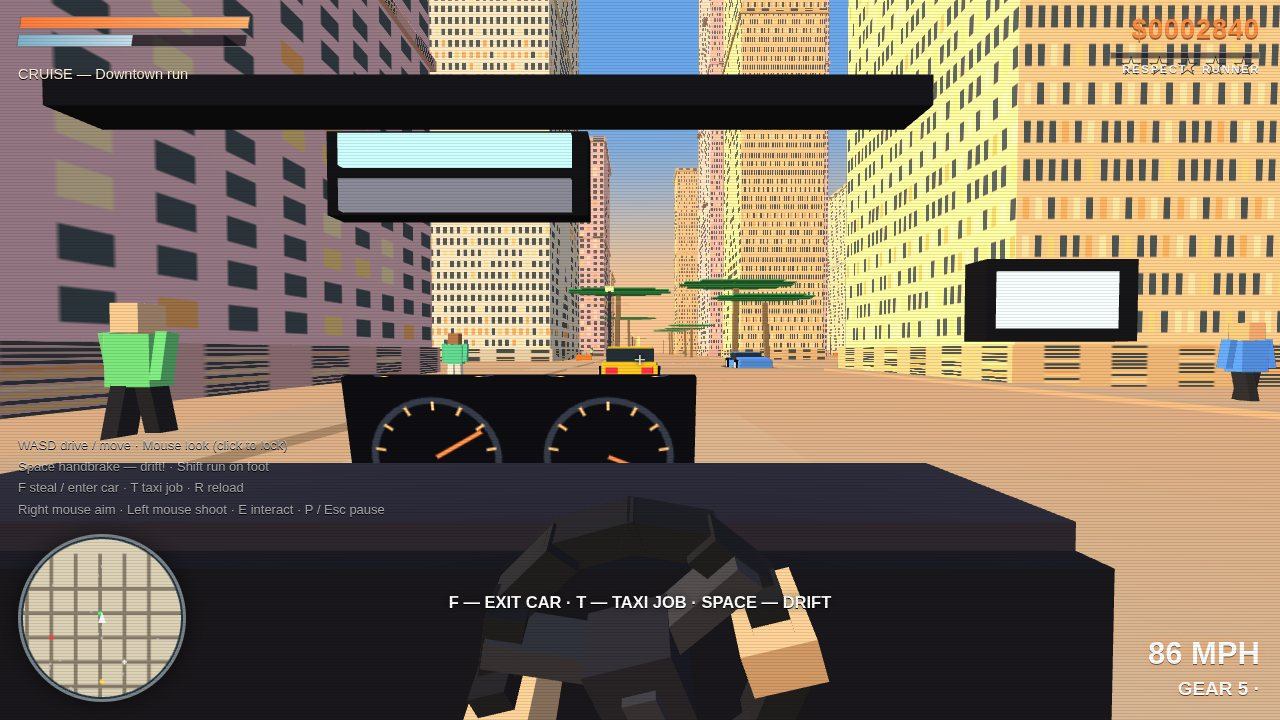
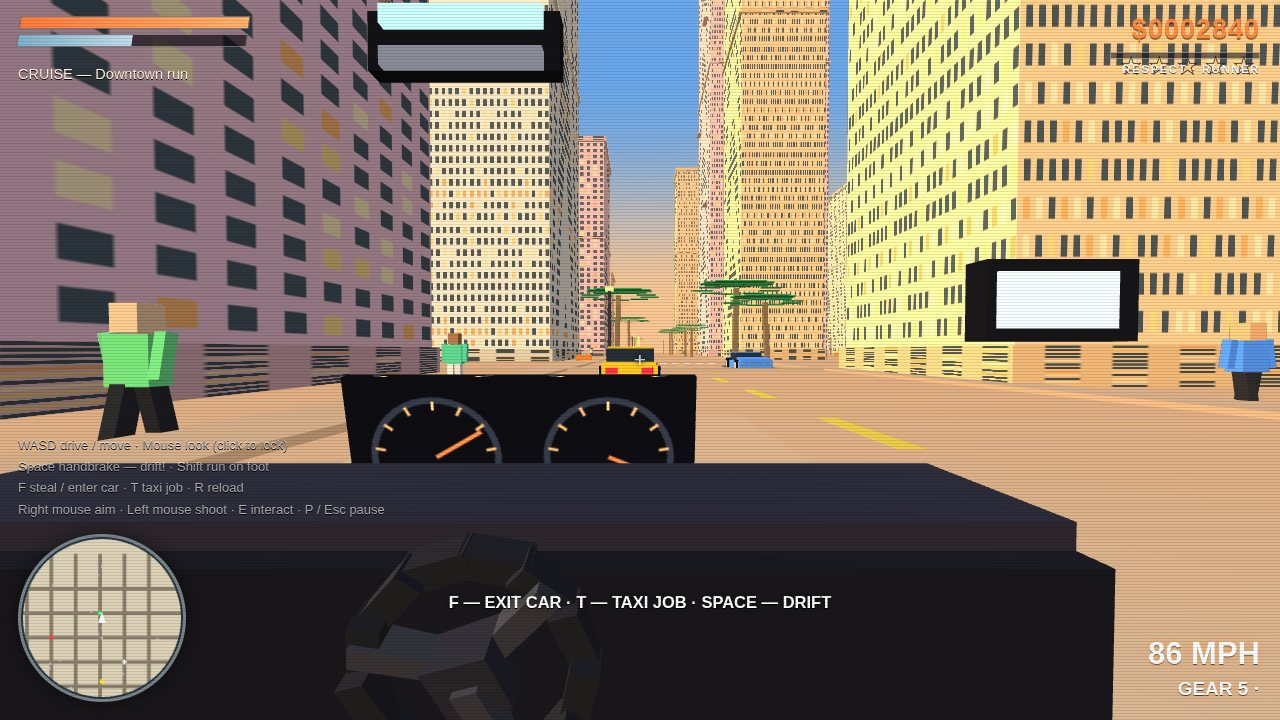
Chase composition + cockpit refinement round: (1) Chase scene restaged on an open straight-road stretch chosen by a sight-line scan (buildings + palm-canopy occlusion of the five helicopter sample rays, corridor palm count as tiebreak) - roadblock pair angled nose-in at 15 m, a pursuit unit alongsid

diff --git a/game/src/game/shots.js b/game/src/game/shots.js
@@ -57,25 +57,75 @@ export function setupShotScene(s, kind) {
   }
   if (kind === 'chase') {
     const car = s.cars.find(c => c.kind === 'parked');
-    // Snap onto a straight vertical road, facing +Z down its length, so the
-    // roadblock / heli / wreck staged ahead are actually in frame.
+    // Open straight-road staging: scan this road for the stretch with the
+    // fewest palm canopies overhanging the next 50 m, so the frame reads as
+    // an open chase corridor instead of a tunnel of fronds.
     const centers = roadCenters();
     const roadC = centers.reduce((a, b) => Math.abs(b - BLOCK * 0.5) < Math.abs(a - BLOCK * 0.5) ? b : a, centers[0]);
-    car.kind = 'player'; car.x = roadC - 3.6; car.z = -30; car.ry = 0;
+    // Score each stretch by (a) how many sight-rays from the cockpit to the
+    // staged helicopter are blocked by buildings / palm canopies (eye is the
+    // deterministic cockpit anchor; margins cover spring/trauma wobble) and
+    // (b) how many canopies overhang the corridor. Geometry mirrors the QA
+    // projection assertion in /tmp/qa-chase.mjs.
+    const segBlocked = (e, pt) => {
+      for (const b of s.city.buildings) {
+        const lo = [b.x - b.w / 2 - 0.3, 0, b.z - b.d / 2 - 0.3], hi = [b.x + b.w / 2 + 0.3, b.h, b.z + b.d / 2 + 0.3];
+        let t0 = 0, t1 = 1, miss = false;
+        for (let i = 0; i < 3; i++) {
+          const d = pt[i] - e[i];
+          if (Math.abs(d) < 1e-9) { if (e[i] < lo[i] || e[i] > hi[i]) { miss = true; break; } continue; }
+          let ta = (lo[i] - e[i]) / d, tb = (hi[i] - e[i]) / d;
+          if (ta > tb) { const tmp = ta; ta = tb; tb = tmp; }
+          t0 = Math.max(t0, ta); t1 = Math.min(t1, tb);
+          if (t0 > t1) { miss = true; break; }
+        }
+        if (!miss && t0 < 0.97) return true;
+      }
+      for (const pm of s.city.palms) {
+        const sc = pm.s || 1, lean = pm.lean || 0.1;
+        const cxp = pm.x + lean * 1.65 * sc, czp = pm.z + lean * 0.5 * sc, cyp = 5.05 * sc, rr = 2.85 * sc + 0.4;
+        for (let i = 1; i < 40; i++) {
+          const t = i / 40;
+          if (t < 0.03 || t > 0.97) continue;
+          const x = e[0] + (pt[0] - e[0]) * t, y = e[1] + (pt[1] - e[1]) * t, zz = e[2] + (pt[2] - e[2]) * t;
+          if (Math.abs(y - cyp) < 0.5 && Math.hypot(x - cxp, zz - czp) < rr) return true;
+        }
+      }
+      return false;
+    };
+    let bestZ = -30, bestScore = Infinity;
+    for (let z = -75; z <= 25; z += 5) {
+      const eye = [roadC - 3.6 - 0.35, 1.22, z + 0.15];
+      const hx0 = roadC - 3.6 - 6, hz0 = z + 21, hh = 12.5, hry = 0.9;
+      const hfx = Math.sin(hry), hfz = Math.cos(hry), hrx = Math.cos(hry), hrz = -Math.sin(hry);
+      const hPts = [
+        [hx0, hh, hz0],
+        [hx0 + hfx * 3.2, hh, hz0 + hfz * 3.2],
+        [hx0 - hfx * 3.4, hh + 0.4, hz0 - hfz * 3.4],
+        [hx0 + hrx * 6.75, hh + 1.5, hz0 + hrz * 6.75],
+        [hx0 - hrx * 6.75, hh + 1.5, hz0 - hrz * 6.75],
+      ];
+      let score = hPts.filter(pt => segBlocked(eye, pt)).length * 100;
+      for (const pm of s.city.palms) if (Math.abs(pm.x - roadC) < 13 && pm.z > z - 4 && pm.z < z + 52) score++;
+      if (score < bestScore || (score === bestScore && Math.abs(z + 30) < Math.abs(bestZ + 30))) { bestScore = score; bestZ = z; }
+    }
+    car.kind = 'player'; car.x = roadC - 3.6; car.z = bestZ; car.ry = 0;
     p.inCar = car; p.x = car.x; p.z = car.z;
     car.rpm = 0.8; s.wanted = 4; s.trauma = 0.45;
     const fx = Math.sin(car.ry), fz = Math.cos(car.ry), rx = Math.cos(car.ry), rz = -Math.sin(car.ry);
     const mkCop = (x, z, ry) => ({ id: 950 + s.cops.length, kind: 'cop', x, z, ry, speed: 12, targetSpeed: 20, hp: 120, smoke: 0, driver: true, stopped: 0, color: [0.95, 0.95, 0.97] });
-    s.cops.push(mkCop(car.x - rx * 2.6 + fx * 0.6, car.z - rz * 2.6 + fz * 0.6, car.ry + 0.15));
-    s.cops.push(mkCop(car.x - fx * 14 + rx * 5, car.z - fz * 14 + rz * 5, car.ry));
-    // 4-star roadblock: two cruisers side by side across the road ahead.
+    // PIT unit tucked behind (mirror / minimap dressing).
+    s.cops.push(mkCop(car.x - rx * 2.6 - fx * 2, car.z - rz * 2.6 - fz * 2, car.ry + 0.15));
+    // Pursuit unit alongside ahead-left, fully in frame.
+    s.cops.push(mkCop(car.x + fx * 9 + rx * 5.0, car.z + fz * 9 + rz * 5.0, car.ry + 0.05));
+    // 4-star roadblock: two cruisers angled nose-in across the road ahead.
     for (const sd of [-3.0, 3.0]) {
-      const rb = mkCop(car.x + fx * 13 + rx * sd, car.z + fz * 13 + rz * sd, car.ry + Math.PI / 2);
+      const rb = mkCop(car.x + fx * 15 + rx * sd, car.z + fz * 15 + rz * sd, car.ry + Math.PI / 2 - Math.sign(sd) * 0.30);
       rb.roadblock = true; rb.speed = 0;
       s.cops.push(rb);
     }
-    // Air unit overhead, spotlight locked on the player car (staged for frame).
-    s.heli = { a: 0, h: 6, ry: car.ry + 0.9, x: car.x + fx * 15 - rx * 3.5, z: car.z + fz * 15 - rz * 3.5 };
+    // Air unit high in the upper frame, broadside, spotlight on the player.
+    s.heli = { a: 0, h: 12.5, ry: car.ry + 0.9, x: car.x + fx * 21 - rx * 6, z: car.z + fz * 21 - rz * 6 };
     // A burning wreck by the roadside for the explosion chain money-shot.
     const wreck = placeTrafficAt(s, 3, car.x + fx * 11 - rx * 8, car.z + fz * 11 - rz * 8, car.ry + 0.7, [0.3, 0.3, 0.34]);
     wreck.burning = 1.4; wreck.hp = 0;
@@ -83,10 +133,10 @@ export function setupShotScene(s, kind) {
     placeTrafficAt(s, 0, car.x + fx * 26 - rx * 8, car.z + fz * 26 - rz * 8, car.ry + Math.PI / 2, [0.98, 0.78, 0.15]);
     placeTrafficAt(s, 1, car.x - fx * 10 + rx * 10, car.z - fz * 10 + rz * 10, car.ry, [0.4, 0.7, 0.4]);
     const road = roadC;
-    placePedAt(s, 0, road - 10, -42, false, road, -10);
-    placePedAt(s, 1, road + 10.5, -16, false, road, 10.5);
-    placePedAt(s, 2, road + 2, -8, true, road, 12);
-    placePedAt(s, 3, road + 16, -26, true, road, -13);
+    placePedAt(s, 0, road - 10, car.z - 12, false, road, -10);
+    placePedAt(s, 1, road + 10.5, car.z + 14, false, road, 10.5);
+    placePedAt(s, 2, road + 2, car.z + 22, true, road, 12);
+    placePedAt(s, 3, road + 16, car.z + 4, true, road, -13);
     for (let i = 0; i < 26; i++) out.puffs.push({ x: car.x - fx * 2 + rng.range(-1, 1), y: 0.5, z: car.z - fz * 2 + rng.range(-1, 1), vx: -fx * 2, vy: rng.range(1, 2), vz: -fz * 2, life: 1.6, size: 0.9, color: [0.85, 0.85, 0.88] });
     for (let i = 0; i < 10; i++) out.puffs.push({ x: car.x - rx * 2.2, y: 0.8, z: car.z - rz * 2.2, vx: -rx * 3, vy: 1.5, vz: -rz * 3, life: 0.5, size: 0.3, color: [1, 0.75, 0.25] });
     out.skids = [{ x: car.x - fx * 6, z: car.z - fz * 6, ry: car.ry, len: 9 }, { x: car.x - fx * 10, z: car.z - fz * 10, ry: car.ry + 0.2, len: 8 }];

diff --git a/game/src/main.js b/game/src/main.js
@@ -81,7 +81,9 @@ function buildCityMeshes(s) {
     }
     for (let i = 0; i < 9; i++) {
       const a = i / 9 * Math.PI * 2;
-      plain.box(tx + Math.sin(a) * 1.8 * sc, 4.9 * sc + 0.3, tz + Math.cos(a) * 1.8 * sc, 3.8 * sc, 0.08, 0.8 * sc, [0.18, 0.62, 0.33]);
+      const dx = Math.sin(a), dz = Math.cos(a);
+      plain.box(tx + dx * 1.15 * sc, 4.95 * sc + 0.3, tz + dz * 1.15 * sc, 2.4 * sc, 0.08, 0.55 * sc, [0.18, 0.62, 0.33]);
+      plain.box(tx + dx * 2.2 * sc, 4.55 * sc + 0.3, tz + dz * 2.2 * sc, 1.3 * sc, 0.07, 0.45 * sc, [0.16, 0.56, 0.30]);
     }
   }
   for (const l of city.lights) {
@@ -236,9 +238,10 @@ function drawInterior(s, car) {
   // live instrument cluster (canvas texture, needles track speed/rpm)
   q = at(1.36, -0.05, 0.95);
   R.panel(q[0], q[1], q[2], car.ry, 0.88, 0.42, 'dash', { pitch: -0.18 });
-  // steering wheel: slim ring (r=0.175) + three spokes, rotation = steer x 3.2
+  // steering wheel: ring (r=0.15) + three spokes, rotation = steer x 3.2;
+  // seated low and left-of-centre on the driver's axis, no hand blocks
   const wheelRoll = -(car.phys ? car.phys.steerAngle : 0) * 3.2;
-  const wc = at(0.74, -0.35, 0.82);
+  const wc = at(0.80, -0.12, 0.78);
   const wob = (dx, dy) => {
     const cr = Math.cos(wheelRoll), sr = Math.sin(wheelRoll);
     const lx = dx * cr - dy * sr, ly = dx * sr + dy * cr;
@@ -249,18 +252,15 @@ function drawInterior(s, car) {
   // ring: 12 short segments approximating a circle
   for (let i = 0; i < 12; i++) {
     const a = i / 12 * Math.PI * 2;
-    b = wob(Math.cos(a) * 0.175, Math.sin(a) * 0.175);
-    R.box(b[0], b[1], b[2], car.ry, 0.115, 0.048, 0.05, rimC, { pitch: -0.32, roll: wheelRoll + a + Math.PI / 2 });
+    b = wob(Math.cos(a) * 0.15, Math.sin(a) * 0.15);
+    R.box(b[0], b[1], b[2], car.ry, 0.10, 0.042, 0.045, rimC, { pitch: -0.32, roll: wheelRoll + a + Math.PI / 2 });
   }
   // three spokes: down, lower-left, lower-right (classic 3-spoke layout)
   for (const a of [-Math.PI / 2, -Math.PI / 2 - 2.1, -Math.PI / 2 + 2.1]) {
-    b = wob(Math.cos(a) * 0.095, Math.sin(a) * 0.095);
-    R.box(b[0], b[1], b[2], car.ry, 0.20, 0.042, 0.055, spokeC, { pitch: -0.32, roll: wheelRoll + a });
+    b = wob(Math.cos(a) * 0.082, Math.sin(a) * 0.082);
+    R.box(b[0], b[1], b[2], car.ry, 0.17, 0.038, 0.05, spokeC, { pitch: -0.32, roll: wheelRoll + a });
   }
-  b = wob(0, 0); R.box(b[0], b[1], b[2], car.ry, 0.11, 0.11, 0.09, [0.16, 0.16, 0.19], { pitch: -0.32, roll: wheelRoll });
-  // driver hands gripping the rim at 9 and 3
-  b = wob(-0.175, -0.01); R.box(b[0], b[1], b[2], car.ry, 0.09, 0.07, 0.11, [0.85, 0.68, 0.52], { pitch: -0.32, roll: wheelRoll });
-  b = wob(0.175, -0.01); R.box(b[0], b[1], b[2], car.ry, 0.09, 0.07, 0.11, [0.85, 0.68, 0.52], { pitch: -0.32, roll: wheelRoll });
+  b = wob(0, 0); R.box(b[0], b[1], b[2], car.ry, 0.095, 0.095, 0.08, [0.16, 0.16, 0.19], { pitch: -0.32, roll: wheelRoll });
   for (const sd of [-1, 1]) {
     q = at(0.92, sd * 1.02, 1.3);
     R.box(q[0], q[1], q[2], car.ry, 0.24, 0.13, 0.05, [0.08, 0.08, 0.1]);
@@ -272,15 +272,14 @@ function drawInterior(s, car) {
   R.box(q[0], q[1], q[2], car.ry, 0.42, 0.3, 1.1, [0.11, 0.11, 0.14]);
   q = at(0.55, 0.18, 0.6);
   R.box(q[0], q[1], q[2], car.ry, 0.07, 0.16, 0.07, [0.2, 0.2, 0.24]);
-  // rear-view mirror with a simple two-tone reflection (sky over road)
-  q = at(1.08, 0, 1.56);
-  R.box(q[0], q[1], q[2], car.ry, 0.5, 0.16, 0.05, [0.07, 0.07, 0.09]);
-  q = at(1.05, 0, 1.60);
-  R.box(q[0], q[1], q[2], car.ry, 0.44, 0.06, 0.02, [0.62, 0.78, 0.94], { emissive: true });
-  q = at(1.05, 0, 1.515);
-  R.box(q[0], q[1], q[2], car.ry, 0.44, 0.06, 0.02, [0.42, 0.42, 0.46], { emissive: true });
-  q = at(1.30, 0, 1.82);
-  R.box(q[0], q[1], q[2], car.ry, 2.05, 0.07, 0.12, [0.08, 0.08, 0.11]);
+  // rear-view mirror, small and tight to the top edge (two-tone reflection)
+  q = at(1.06, -0.02, 1.80);
+  R.box(q[0], q[1], q[2], car.ry, 0.36, 0.11, 0.04, [0.07, 0.07, 0.09]);
+  q = at(1.03, -0.02, 1.838);
+  R.box(q[0], q[1], q[2], car.ry, 0.30, 0.035, 0.02, [0.62, 0.78, 0.94], { emissive: true });
+  q = at(1.03, -0.02, 1.762);
+  R.box(q[0], q[1], q[2], car.ry, 0.30, 0.035, 0.02, [0.42, 0.42, 0.46], { emissive: true });
+  // (roof brow / sun-visor band removed entirely: it ate the top of the frame)
 }
 function drawGunView(s, eye, viewYaw, viewPitch, lowered = false) {
   const d = viewDir(viewYaw, viewPitch);
@@ -337,8 +336,8 @@ function drawHeli(s, t) {
   const dist = Math.hypot(dx, dz, y);
   const myaw = Math.atan2(dx, dz);
   const mpitch = Math.atan2(Math.hypot(dx, dz), y);
-  R.box((x + p.x) / 2, y / 2 + 0.5, (z + p.z) / 2, myaw, 1.5, dist, 1.5, [1, 0.98, 0.85], { alpha: 0.13, pitch: -mpitch });
-  R.box(p.x, 0.22, p.z, 0, 7.5, 0.06, 7.5, [1, 0.98, 0.85], { alpha: 0.30 });
+  R.box((x + p.x) / 2, y / 2 + 0.5, (z + p.z) / 2, myaw, 2.4, dist, 2.4, [1, 0.98, 0.85], { alpha: 0.22, pitch: -mpitch });
+  R.box(p.x, 0.22, p.z, 0, 9.5, 0.06, 9.5, [1, 0.98, 0.85], { alpha: 0.45 });
   R.box(p.x, 0.24, p.z, 0, 4.2, 0.06, 4.2, [1, 1, 0.95], { alpha: 0.35 });
 }
 
